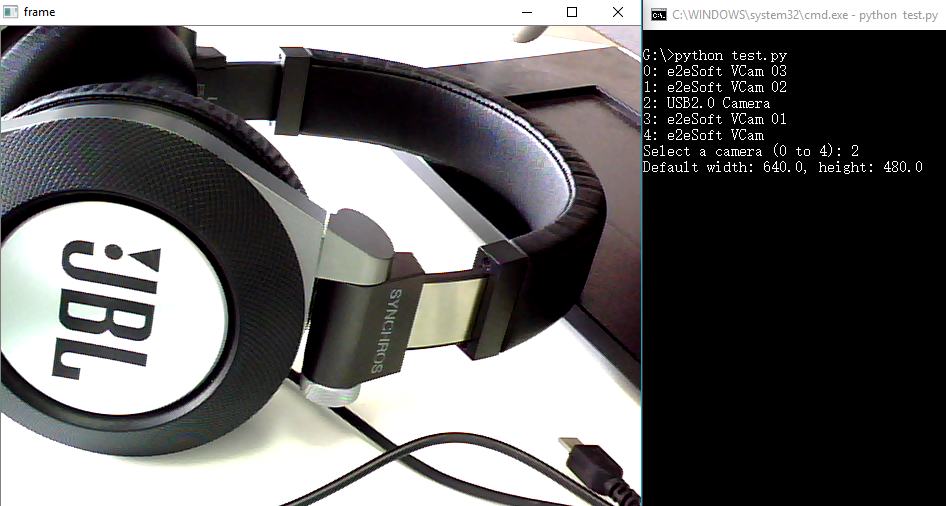
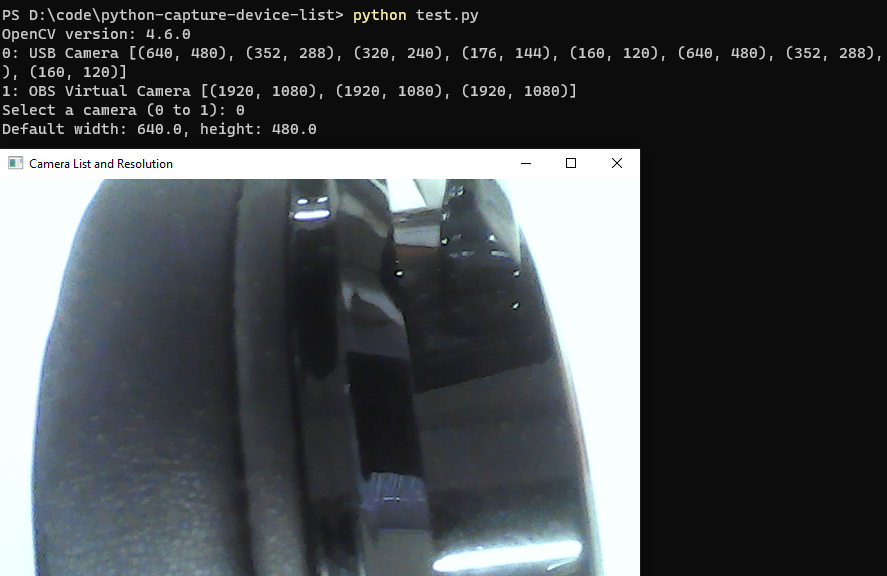
Support camera resolution

diff --git a/device/device.cpp b/device/device.cpp
@@ -1,4 +1,4 @@
-
+// https://docs.microsoft.com/en-us/windows/win32/directshow/selecting-a-capture-device
 // Python includes
 #include <Python.h>
 
@@ -8,6 +8,7 @@
 #include <windows.h>
 #include <dshow.h>
 #include <comutil.h>
+#include <string>
 
 #pragma comment(lib, "strmiids")
 
@@ -41,6 +42,32 @@ static struct module_state _state;
 // #pragma comment(lib, "odbc32")
 // #pragma comment(lib, "odbccp32")
 #pragma comment(lib, "comsuppwd.lib")
+
+// https://docs.microsoft.com/en-us/windows/win32/directshow/deletemediatype
+void _FreeMediaType(AM_MEDIA_TYPE& mt)
+{
+    if (mt.cbFormat != 0)
+    {
+        CoTaskMemFree((PVOID)mt.pbFormat);
+        mt.cbFormat = 0;
+        mt.pbFormat = NULL;
+    }
+    if (mt.pUnk != NULL)
+    {
+        // pUnk should not be used.
+        mt.pUnk->Release();
+        mt.pUnk = NULL;
+    }
+}
+
+void _DeleteMediaType(AM_MEDIA_TYPE *pmt)
+{
+    if (pmt != NULL)
+    {
+        _FreeMediaType(*pmt); 
+        CoTaskMemFree(pmt);
+    }
+}
 
 HRESULT EnumerateDevices(REFGUID category, IEnumMoniker **ppEnum)
 {
@@ -79,6 +106,59 @@ PyObject* DisplayDeviceInformation(IEnumMoniker *pEnum)
 			continue;
 		}
 
+		// Get supported resolution
+		// https://docs.microsoft.com/en-us/windows/win32/directshow/enumerating-media-types
+		// https://stackoverflow.com/questions/4359775/windows-how-to-get-cameras-supported-resolutions/4360002#4360002
+		IEnumPins *pEnum = NULL;
+		IBaseFilter * pFilter = NULL;
+		hr = pMoniker->BindToObject(0, 0, IID_IBaseFilter, (void**)&pFilter);
+		if (FAILED(hr))
+		{
+			pMoniker->Release();
+			continue;
+		}
+
+		hr = pFilter->EnumPins(&pEnum);
+		if (FAILED(hr))
+		{
+			pFilter->Release();
+			continue;
+		}
+
+		IPin *pPin = NULL;
+		PyObject* resolutionList = PyList_New(0); 
+		while(S_OK == pEnum->Next(1, &pPin, NULL))
+		{
+			IEnumMediaTypes *pEnumMediaTypes = NULL;
+			AM_MEDIA_TYPE *mediaType = NULL;
+			VIDEOINFOHEADER* videoInfoHeader = NULL;
+			HRESULT hr = pPin->EnumMediaTypes(&pEnumMediaTypes);
+			if (FAILED(hr))
+			{
+				continue;
+			}
+
+			while (hr = pEnumMediaTypes->Next(1, &mediaType, NULL), hr == S_OK)
+			{
+				if ((mediaType->formattype == FORMAT_VideoInfo) &&
+					(mediaType->cbFormat >= sizeof(VIDEOINFOHEADER)) &&
+					(mediaType->pbFormat != NULL))
+				{
+					videoInfoHeader = (VIDEOINFOHEADER*)mediaType->pbFormat;
+					videoInfoHeader->bmiHeader.biWidth;  
+					videoInfoHeader->bmiHeader.biHeight; 
+					PyObject *size = PyTuple_New(2);
+					PyTuple_SET_ITEM(size, 0, Py_BuildValue("i", videoInfoHeader->bmiHeader.biWidth));
+					PyTuple_SET_ITEM(size, 1, Py_BuildValue("i", videoInfoHeader->bmiHeader.biHeight));
+					// printf("%d x %d\n", videoInfoHeader->bmiHeader.biWidth, videoInfoHeader->bmiHeader.biHeight);
+					// std::string s = std::to_string(videoInfoHeader->bmiHeader.biWidth) + "x" + std::to_string(videoInfoHeader->bmiHeader.biHeight);
+					PyList_Append(resolutionList, size);
+				}
+				_DeleteMediaType(mediaType);
+			}
+			pEnumMediaTypes->Release();
+		}
+
 		VARIANT var;
 		VariantInit(&var);
 
@@ -92,7 +172,10 @@ PyObject* DisplayDeviceInformation(IEnumMoniker *pEnum)
 		{
 			// Append a result to Python list
 			char  *pValue = _com_util::ConvertBSTRToString(var.bstrVal);
-			hr = PyList_Append(pyList, Py_BuildValue("s", pValue));
+			PyObject *tuple = PyTuple_New(2);
+			PyTuple_SET_ITEM(tuple, 0, Py_BuildValue("s", pValue));
+			PyTuple_SET_ITEM(tuple, 1, resolutionList);
+			hr = PyList_Append(pyList, tuple);
 			delete[] pValue;  
 			if (FAILED(hr)) {
 				printf("Failed to append the object item at the end of list list\n");

diff --git a/test.py b/test.py
@@ -28,10 +28,11 @@ def main():
 
     # Get camera list
     device_list = device.getDeviceList()
+    # print(device_list)
     index = 0
 
-    for name in device_list:
-        print(str(index) + ': ' + name)
+    for camera in device_list:
+        print(str(index) + ': ' + camera[0] + ' ' + str(camera[1]))
         index += 1
 
     last_index = index - 1
@@ -54,7 +55,7 @@ def main():
         while True:
             
             ret, frame = cap.read()
-            cv2.imshow("frame", frame)
+            cv2.imshow("Camera List and Resolution", frame)
 
             # key: 'ESC'
             key = cv2.waitKey(20)

diff --git a/setup.py b/setup.py
@@ -5,7 +5,7 @@ long_description = io.open("README.md", encoding="utf-8").read()
 packages = ['device']
 
 setup (name = 'windows-capture-device-list',
-            version = '1.0.1',
+            version = '1.1.0',
             description = 'Get device list with Windows DirectShow',
             long_description=long_description,
             long_description_content_type="text/markdown",

diff --git a/setup_distutils.py b/setup_distutils.py
@@ -8,7 +8,7 @@ module_device = Extension('device',
                       )
 
 setup (name = 'windows-capture-device-list',
-            version = '1.0.1',
+            version = '1.1.0',
             description = 'Get device list with Windows DirectShow',
             long_description=long_description,
             long_description_content_type="text/markdown",

diff --git a/README.md b/README.md
@@ -1,10 +1,9 @@
-# List Capture Devices for Python OpenCV on Windows
-**OpenCV** does not have an API for listing capture devices. The sample shows how to create a Python extension to invoke DirectShow C++ APIs for enumerating capture devices.
+# Getting Camera List and Resolution in Python on Windows
+**OpenCV** does not have an API for enumerating capture devices. The sample shows how to create a Python extension to invoke DirectShow C++ APIs for enumerating capture devices and corresponding resolutions.
 
-## Environment
+## Environment   
 * [Microsoft Windows SDK][0]
-* Python 2.7.9 / Python 3.6.5
-* OpenCV 3.3.0
+* Python 3.6 or later
 
 ## How to Build the CPython Extension
 - Create a source distribution:
@@ -59,8 +58,8 @@ def main():
     device_list = device.getDeviceList()
     index = 0
 
-    for name in device_list:
-        print(str(index) + ': ' + name)
+    for camera in device_list:
+        print(str(index) + ': ' + camera[0] + ' ' + str(camera[1]))
         index += 1
 
     last_index = index - 1
@@ -102,6 +101,7 @@ if __name__ == "__main__":
 ```bash
 python test.py
 ```
+
 ![camera list in Python](https://raw.githubusercontent.com/yushulx/python-capture-device-list/master/screenshot/python-list-device.PNG)
 
 ## Blog
